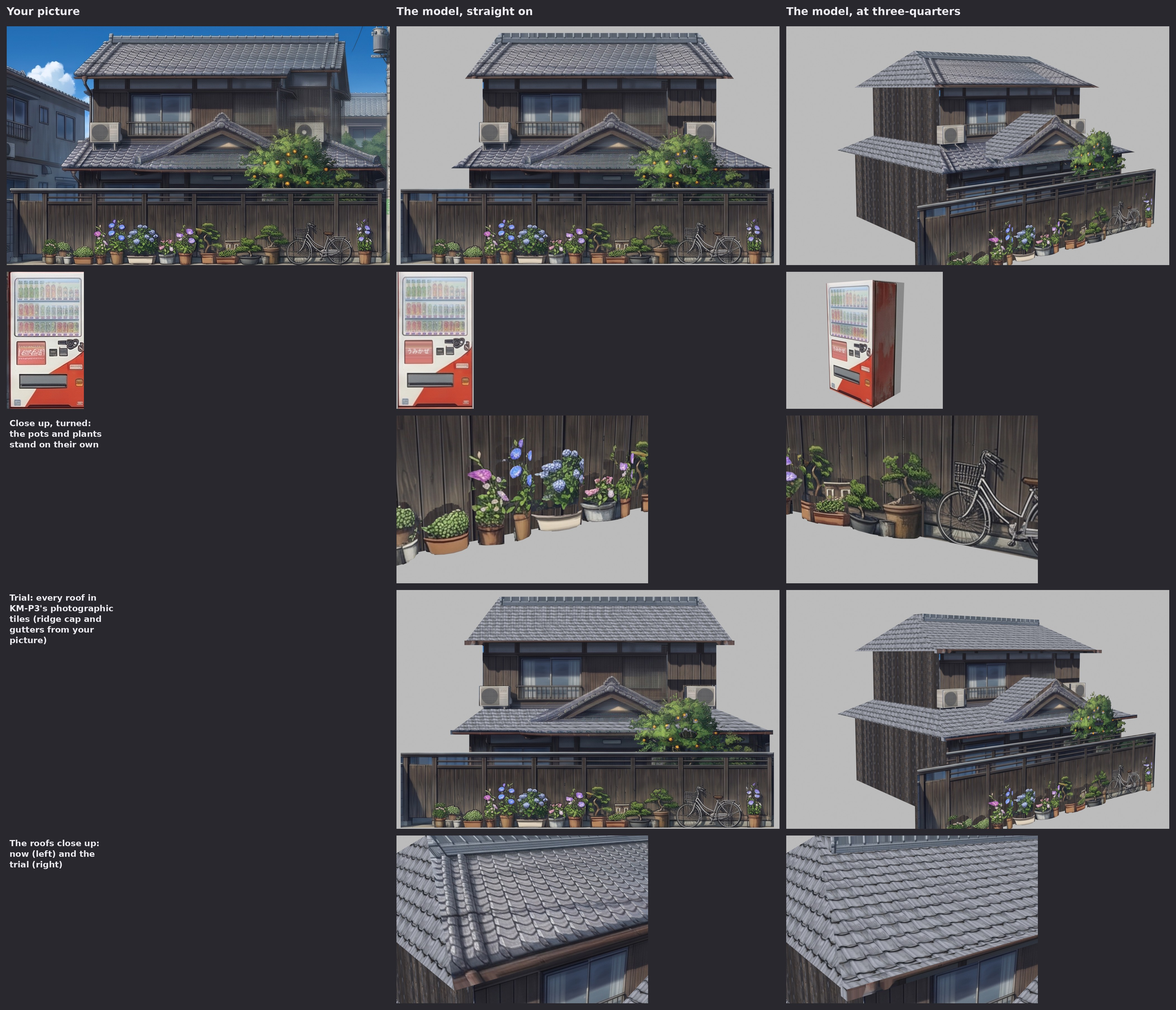
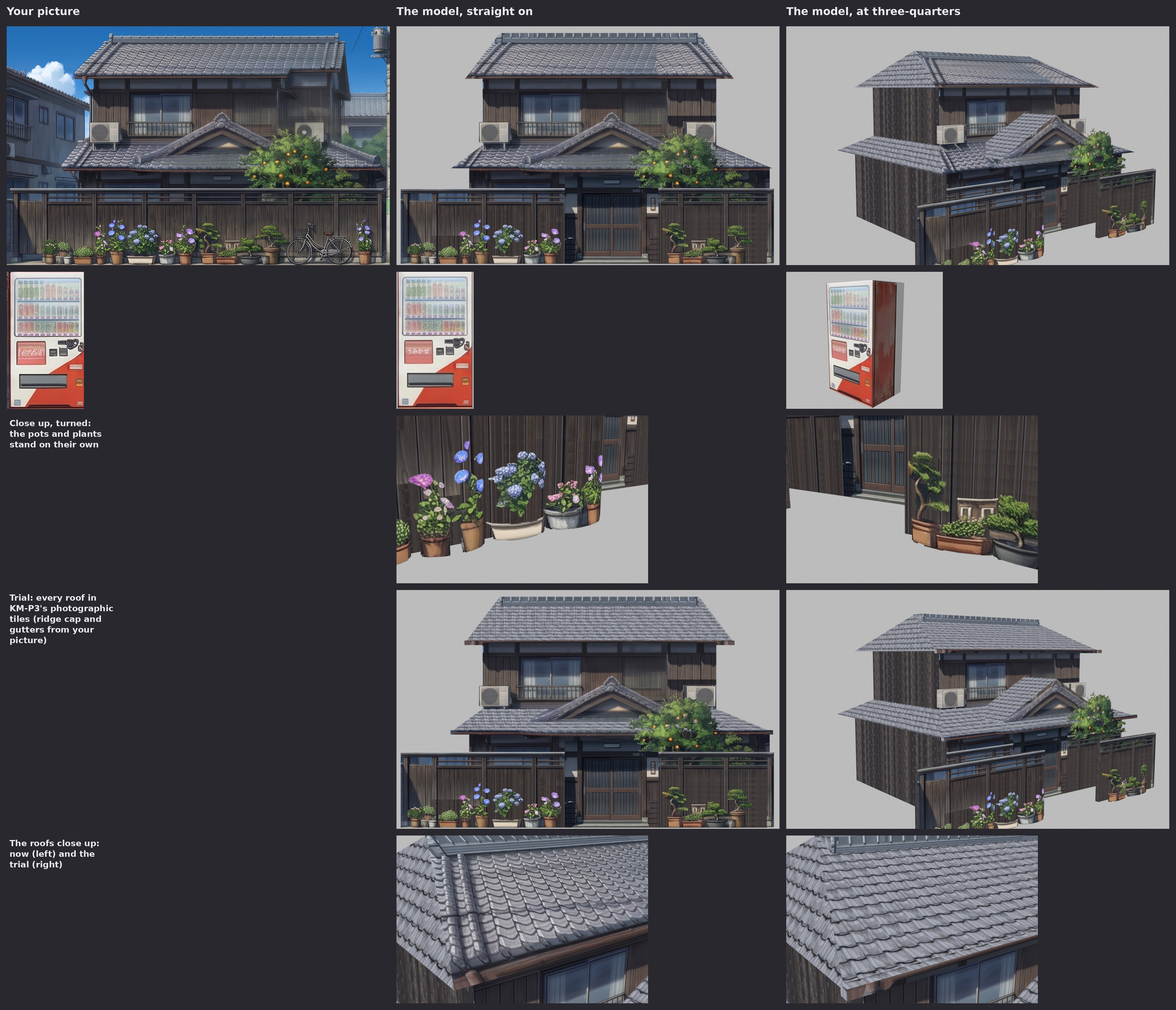
Kamakura home: an entrance under the gable
KM1-1's fence runs unbroken in front of the home. At the user's request the fence now
opens under the entrance gable onto the entrance of KM-x2, the earlier picture of the
same home: the sliding lattice doors, light, house number, walls with the nameplate
and step, cut once from KM-x2 in git history with what stood in front painted out
(refs/parts/KM-x2_entrance.png, --entrance-from), set into the wall at the house's
scale with a post at each side. The pots close up to the left, both bonsai groups move
to the right; the bicycle and the last morning glory leave the fence line.

Fixes on the way (LEARNINGS D13): moved groups have their whole box painted out (the
bicycle's ghost stayed on the fence), and a group's background is learnt from the
fence above it, not beside it (the bonsai had lost their canopies). RESTYLE KM1-1 and
ASSET KM-B01 now include the entrance.

Claude-Session: https://claude.ai/code/session_015hMH1BRkR7V2UbVhP5LJ56

diff --git a/tools/blender/kit_buildings_km.py b/tools/blender/kit_buildings_km.py
@@ -21,7 +21,7 @@ sys.path.insert(0, os.path.dirname(os.path.abspath(__file__)))
 import kit_lib as K
 
 ARGS = sys.argv[sys.argv.index('--') + 1:] if '--' in sys.argv else []
-OUT = ARGS[0] if ARGS else os.path.abspath('out_km')
+OUT = ARGS[0] if ARGS and not ARGS[0].startswith('--') else os.path.abspath('out_km')
 BOARD = ARGS[ARGS.index('--board') + 1] if '--board' in ARGS else None
 REPO = os.path.abspath(os.path.join(os.path.dirname(os.path.abspath(__file__)), '..', '..'))
 REFS = os.path.join(REPO, 'review', 'kamakura', 'refs')
@@ -467,6 +467,59 @@ def repair_km11(im):
     return Image.fromarray(a)
 
 
+# The home's entrance (the user asked for one: KM1-1's fence runs unbroken in front of the house). It is the entrance
+# of KM-x2, an earlier picture of the same home the user has since removed: the bay from the left fence's end to the
+# right one's (x 1657 to 1967), from under the skirt roof's gutter (y 592) to the ground (y 883): the two sliding
+# lattice doors, the light and the house number above them, the plaster-and-board walls either side with the nameplate,
+# the step. The urn and the white flowers in front of its left wall and the bonsai in front of its right one are
+# painted out (GrabCut, as the home's own pots). Made once, from KM-x2 in git history (d9630ba~1):
+#   blenv/bin/python kit_buildings_km.py -- --entrance-from /abs/KM-x2_home_street.png
+ENTRANCE = os.path.join(REFS, 'parts', 'KM-x2_entrance.png')
+ENTRANCE_BOX = (1657, 592, 1967, 883)
+ENTRANCE_PX_PER_M = 110.0
+X2_GROUPS = [
+    ('white_flowers', (1612, 802, 1662), [(1624, 855, 1658, 879)]),
+    ('urn', (1655, 791, 1697), [(1664, 806, 1690, 870), (1662, 858, 1679, 876)]),
+    ('bonsai', (1915, 753, 2098), [(1940, 856, 1998, 878), (2008, 854, 2028, 878), (2014, 830, 2060, 878),
+                                   (2028, 775, 2042, 826)]),
+]
+X2_BACK = {'bonsai': [(1913, 846, 1934, 886), (2064, 812, 2098, 851)]}
+
+
+def make_entrance(x2_path):
+    x2 = Image.open(x2_path).convert('RGB')
+    masks = garden_masks(x2, X2_GROUPS, X2_BACK, 882)
+    allm = np.zeros(np.asarray(x2).shape[:2], np.uint8)
+    for m in masks.values():
+        allm |= m
+    part = paint_out(x2, allm, ref_rows=(732, 749)).crop(ENTRANCE_BOX)
+    os.makedirs(os.path.dirname(ENTRANCE), exist_ok=True)
+    part.save(ENTRANCE)
+    print('entrance', ENTRANCE, part.size)
+
+
+def add_entrance(fixed, cx, gy, s):
+    """The entrance set into the house's ground floor under the gable (its middle at x 1040), at the house's scale, its
+    colours brought halfway to the house's own; posts copied from the fence at both ends of the opening. Returns the
+    picture and the opening's x range (in picture px)."""
+    part = Image.open(ENTRANCE).convert('RGB')
+    k = s / ENTRANCE_PX_PER_M
+    part = part.resize((round(part.width * k), round(part.height * k)), Image.LANCZOS)
+    matched = match_colours(part, fixed.crop((530, 548, 1600, 625)))
+    part = Image.blend(part, matched, 0.5)
+    w, h = part.size
+    x0, y1 = round(1040 - w / 2), round(gy)
+    y0 = y1 - h
+    a = np.asarray(fixed).copy()
+    p = np.asarray(part).astype(np.float32)
+    ramp = np.clip(np.arange(h) / 6.0, 0, 1)[:, None, None]          # its top edge eased into the wall under the eave
+    a[y0:y1, x0:x0 + w] = (p * ramp + a[y0:y1, x0:x0 + w] * (1 - ramp)).astype(np.uint8)
+    post = a[618:y1, 748:758].copy()                                  # one of the fence's posts
+    a[618:y1, x0 - 10:x0] = post
+    a[618:y1, x0 + w:x0 + w + 10] = post
+    return Image.fromarray(a), (x0, x0 + w)
+
+
 def build_home(atlas):
     """KM-B01, the kid's home (KM1-1, its left): the two-storey timber house with its hipped upper roof, the skirt roof
     round the ground floor with the entrance gable, the air conditioners on the skirt roof, and the long board fence in
@@ -481,7 +534,11 @@ def build_home(atlas):
     allm = np.zeros_like(tmask)
     for m in masks.values():
         allm |= m
-    fixed = paint_out(src, allm)
+    # every group moves along the fence or leaves it, so each one's whole box is painted out (a thin bicycle's mask
+    # misses spokes and tubes, which stayed on the fence once the bicycle no longer stood in front of them)
+    for _, (x0, y0, x1), _ in GARDEN:
+        allm[y0 - 4:GARDEN_GROUND + 1, x0 - 4:x1 + 4] = 1
+    fixed = paint_out(src, allm, ref_rows=(700, 720))
     a = np.asarray(fixed).copy()
     tm = cv2.dilate(tmask, np.ones((5, 5), np.uint8)) > 0
     ys, xs = np.nonzero(tm)
@@ -489,6 +546,7 @@ def build_home(atlas):
     fixed = repair_km11(Image.fromarray(a))
     fixed = unsky(fixed, (480, 50, 1520, 240))      # the upper roof's outline against the sky
     cx, gy, s, crop_box = HOME['cx'], HOME['gy'], HOME['s'], HOME['crop']
+    fixed, (ex0, ex1) = add_entrance(fixed, cx, gy, s)
     fpos = atlas.place(fixed.crop(crop_box))
     fmap = lambda co: (cx + co.x * s - crop_box[0], gy - co.z * s - crop_box[1])
     # the hidden faces: KM-P3's boards and tiles at 160 px to the metre, coloured like the picture's boards and roof
@@ -540,10 +598,18 @@ def build_home(atlas):
     trial = house('KmHomeTrialP3', True)
 
     fence = Builder(atlas, fpos, fmap, bpos, boards.size)
-    fence.box(X(285), X(1620), -4.6, -4.45, 0.0, Z(620), side=side, skip=('bottom',))     # 2.3 m tall, along the lane
+    for f0, f1 in ((285, ex0), (ex1, 1620)):            # 2.3 m tall, along the lane, open at the entrance
+        fence.box(X(f0), X(f1), -4.6, -4.45, 0.0, Z(620), side=side, skip=('bottom',))
     fence_obj = fence.object('KmHomeFence')
     fence_obj.parent = home
-    garden, tree = build_garden(atlas, src, masks, tmask)
+    # the pots either side of the entrance: those left of it closed up to its left, the two bonsai groups to its right;
+    # the bicycle and the last morning glory no longer fit along the fence (the bicycle is its own prop, KM-A08)
+    left = ['pots_left', 'bush', 'morning_glory', 'hydrangea', 'flowers']
+    right = ['bonsai_left', 'bonsai_right']
+    edge = lambda n, f: f(np.nonzero(masks[n])[1])
+    shift = {n: min(0, (ex0 - 14) - max(edge(m, np.max) for m in left)) for n in left}
+    shift.update({n: (ex1 + 14) - min(edge(m, np.min) for m in right) for n in right})
+    garden, tree = build_garden(atlas, src, masks, tmask, shift)
     garden.parent = home
     tree.parent = home
     return home, trial, dict(source='KM1-1 (left): the house and its fence; in front of it, the pots, plants and bicycle '
@@ -564,16 +630,18 @@ GARDEN = [
     ('morning_glory', (578, 726, 702), [(588, 860, 624, 887), (642, 848, 688, 887)]),
     ('hydrangea', (698, 740, 812), [(705, 862, 806, 887)]),
     ('flowers', (808, 746, 952), [(815, 856, 868, 887), (886, 850, 934, 887)]),
-    ('bonsai_left', (948, 736, 1105), [(966, 850, 1024, 887), (1052, 807, 1100, 834), (1022, 866, 1098, 887)]),
-    ('bonsai_right', (1078, 744, 1282), [(1102, 864, 1173, 887), (1182, 864, 1209, 887), (1190, 832, 1243, 887)]),
+    ('bonsai_left', (944, 736, 1105), [(966, 850, 1024, 887), (1052, 807, 1100, 834), (1022, 866, 1098, 887),
+                                       (962, 752, 1022, 788), (982, 796, 1032, 828), (976, 790, 991, 848)]),
+    ('bonsai_right', (1078, 744, 1282), [(1102, 864, 1173, 887), (1182, 864, 1209, 887), (1190, 832, 1243, 887),
+                                         (1182, 755, 1238, 788), (1228, 800, 1268, 818), (1206, 790, 1224, 828)]),
     ('bicycle', (1266, 733, 1510), []),
     ('morning_glory_right', (1515, 722, 1588), [(1528, 852, 1575, 887)]),
 ]
-# fence seen between and beside them: never part of them
-GARDEN_BACK = {}
+# fence seen between and beside them: never part of them (the shaded boards under the big bonsai's canopy)
+GARDEN_BACK = {'bonsai_right': [(1178, 792, 1203, 828)]}
 
 
-def garden_masks(src):
+def garden_masks(src, groups=None, back=None, ground=None):
     """Each group's cut-out (a 0/1 mask over the whole picture), by GrabCut: a colour model of the group against one of
     what's round it, seeded with what is surely the group (saturated or bright: leaves, flowers, terracotta, the white
     bin) and what is surely fence (dark, brownish grey and the same all the way up and down a board, as leaves, soil and
@@ -584,10 +652,15 @@ def garden_masks(src):
     chroma = np.sqrt(((F - luma[..., None]) ** 2).sum(-1))
     vstd = np.sqrt(np.maximum(cv2.blur(luma ** 2, (1, 13)) - cv2.blur(luma, (1, 13)) ** 2, 0))
     fence = (chroma < 24) & (luma < 105) & (vstd < 7) & (F[..., 0] >= F[..., 1] - 2)
+    groups = GARDEN if groups is None else groups
+    back = GARDEN_BACK if back is None else back
+    ground = GARDEN_GROUND if ground is None else ground
     masks = {}
-    for name, (x0, y0, x1), hints in GARDEN:
-        y1, m = GARDEN_GROUND, 20
-        X0, Y0, X1, Y1 = x0 - m, y0 - m, x1 + m, y1 + 4
+    for name, (x0, y0, x1), hints in groups:
+        # the background is learnt from the fence above the group (and the fence-like pixels inside its box), not from
+        # beside it, where along a crowded fence the next group's leaves would teach it that leaves are background
+        y1, m, mx = ground, 20, 3
+        X0, Y0, X1, Y1 = x0 - mx, y0 - m, x1 + mx, y1 + 4
         sub = np.ascontiguousarray(A[Y0:Y1, X0:X1, ::-1])
         lu, ch = luma[Y0:Y1, X0:X1], chroma[Y0:Y1, X0:X1]
         gc = np.full(lu.shape, cv2.GC_BGD, np.uint8)
@@ -599,7 +672,7 @@ def garden_masks(src):
         gc[inner & fence[Y0:Y1, X0:X1]] = cv2.GC_BGD
         for hx0, hy0, hx1, hy1 in hints:
             gc[hy0 - Y0:hy1 - Y0, hx0 - X0:hx1 - X0] = cv2.GC_FGD
-        for hx0, hy0, hx1, hy1 in GARDEN_BACK.get(name, []):
+        for hx0, hy0, hx1, hy1 in back.get(name, []):
             gc[max(hy0 - Y0, 0):hy1 - Y0, max(hx0 - X0, 0):hx1 - X0] = cv2.GC_BGD
         cv2.grabCut(sub, gc, None, np.zeros((1, 65)), np.zeros((1, 65)), 8, cv2.GC_INIT_WITH_MASK)
         fg = ((gc == cv2.GC_FGD) | (gc == cv2.GC_PR_FGD)).astype(np.uint8)
@@ -654,7 +727,7 @@ def paint_out(img, mask, ref_rows=(700, 727), grow=3):
     return Image.fromarray(a)
 
 
-def cutout_arc(b, atlas, src, mask, box, cx, gy, s, y_back, name):
+def cutout_arc(b, atlas, src, mask, box, cx, gy, s, y_back, name, dx=0):
     """One group as a cut-out on half an elliptic cylinder, its ends against the fence (y_back), its middle toward the
     street: straight on it is the picture exactly; turned, it is round. The cut-out's colours are the picture's own; its
     alpha the group's mask."""
@@ -663,7 +736,7 @@ def cutout_arc(b, atlas, src, mask, box, cx, gy, s, y_back, name):
     pos = atlas.place(Image.fromarray(rgba, 'RGBA'))
     X = lambda px: (px - cx) / s
     Z = lambda py: (gy - py) / s
-    xa, xb, top = X(x0), X(x1), Z(y0)
+    xa, xb, top = X(x0 + dx), X(x1 + dx), Z(y0)      # placed dx px along from where the picture has it
     half = (xb - xa) / 2
     ry = min(max(0.4 * (xb - xa), 0.08), 0.30)
     N = 8
@@ -674,21 +747,23 @@ def cutout_arc(b, atlas, src, mask, box, cx, gy, s, y_back, name):
         f = b.bm.faces.new([b.bm.verts.new(Vector(v)) for v in ((xp, yp, 0.0), (xq, yq, 0.0), (xq, yq, top), (xp, yp, top))])
         for loop in f.loops:
             c = loop.vert.co
-            loop[uvl].uv = atlas.uv(pos, cx + c.x * s - x0, gy - c.z * s - y0)
+            loop[uvl].uv = atlas.uv(pos, cx + c.x * s - dx - x0, gy - c.z * s - y0)
     return ry
 
 
-def build_garden(atlas, src, masks, tmask):
+def build_garden(atlas, src, masks, tmask, shift=None):
     """The pots, plants and the bicycle in front of the fence (KmHomeGarden), and the persimmon behind it (KmHomeTree):
     cut-outs, drawn with the kit's cut-out material."""
     cx, gy, s = HOME['cx'], HOME['gy'], HOME['s']
     g = Builder(atlas, None, None, None, None)
     for i, (name, (x0, y0, x1), _) in enumerate(GARDEN):
+        if shift is not None and name not in shift:
+            continue
         m = masks[name]
         ys, xs = np.nonzero(m)
         box = (int(xs.min()), int(ys.min()), int(xs.max()) + 1, GARDEN_GROUND + 1)
         # each group a little further out than the one before where they overlap, so no two cut-outs share a plane
-        cutout_arc(g, atlas, src, m, box, cx, gy, s, -4.62 - 0.01 * (i % 3), name)
+        cutout_arc(g, atlas, src, m, box, cx, gy, s, -4.62 - 0.01 * (i % 3), name, (shift or {}).get(name, 0))
     garden = g.object('KmHomeGarden', outward=False)
     t = Builder(atlas, None, None, None, None)
     ys, xs = np.nonzero(tmask)
@@ -853,6 +928,9 @@ def board(home, vend, atlas_path, out):
 
 
 def main():
+    if '--entrance-from' in ARGS:
+        make_entrance(ARGS[ARGS.index('--entrance-from') + 1])
+        return
     os.makedirs(OUT, exist_ok=True)
     K.reset()
     atlas = Atlas(ATLAS_SIZE)

diff --git a/docs/KAMAKURA_BUILD.md b/docs/KAMAKURA_BUILD.md
@@ -22,9 +22,15 @@ vending machine (`review/kamakura/kit_proof_board.jpg`, `tools/blender/kit_build
 - **Things standing in front of a building are their own models:** plants, pots, bicycles, signs that stand off the wall.
   Painted on, they smear when the camera turns. They are cut out of the picture (OpenCV's GrabCut, per group, with
   hints) and stand in front as cut-outs on half an elliptic cylinder: straight on exactly the picture, turned round; the
-  wall or fence behind gets them painted out (its boards carried down). The home's pots, plants and bicycle are done
-  this way (`KmHomeGarden`), and its persimmon tree as a card behind the fence (`KmHomeTree`). The bicycle is to become
-  its own modelled prop (KM-A08): as a cut-out, the fence shows inside its wheels.
+  wall or fence behind gets them painted out (its boards carried down). The home's pots and plants are done this way
+  (`KmHomeGarden`), and its persimmon tree as a card behind the fence (`KmHomeTree`).
+- **The home's entrance** (asked for by the user: KM1-1's fence runs unbroken): the fence opens under the entrance
+  gable onto the entrance of KM-x2, the earlier picture of the same home (the sliding lattice doors, the light and house
+  number above them, the plaster-and-board walls either side with the nameplate, the step), kept as a part
+  (`review/kamakura/refs/parts/KM-x2_entrance.png`, the urn and bonsai in front of it painted out), set into the wall at
+  the house's scale with a fence post at each side of the opening. The pots and flowers close up to the left of it, both
+  bonsai groups stand to its right; the bicycle and the last morning glory no longer fit along the fence (the bicycle
+  is its own prop, KM-A08).
 - **No real brands:** a logo that reads as a real one (the corrected KM1-1's vending machine) is repainted with an
   invented name in the city's script (うみかぜ), in its own colours.
 - **The pictures' glitches are not copied:** a clean picture replaces one with a glitch, or else the glitch is repaired,
@@ -38,8 +44,8 @@ vending machine (`review/kamakura/kit_proof_board.jpg`, `tools/blender/kit_build
 - **The highest resolution where it shows:** the fronts at the pictures' full resolution (the home's front is 1,340 px
   across), in the Kamakura atlas (4096 x 4096), within the phone's budgets (`docs/ART_DIRECTION.md`: a building 6,000
   triangles, a street prop 1,500, a tree 6,000, a gameplay structure 5,000; `docs/PERFORMANCE.md`). The proof's home is
-  57 triangles, its fence 10, its pots, plants and bicycle 144, its tree 2, and the vending machine 10: the detail is
-  in the picture, not the mesh.
+  57 triangles, its fence 20, its pots and plants 112, its tree 2, and the vending machine 10: the detail is in the
+  picture, not the mesh.
 - Every asset is checked against its source: rendered straight on and turned, beside the picture, and in all four looks,
   and redone until it matches (an acceptance board: `docs/LEARNINGS.md` rule 4, A8).
 
@@ -149,12 +155,16 @@ Then wait for my first picture.
 ```
 
 ```text
-RESTYLE KM1-1, Hase Lanes. Attach KM1-1. Make it a photograph in KM-0's look, by the rules above: every object exactly
+RESTYLE KM1-1, Hase Lanes. Attach KM1-1 (and the entrance part, below). Make it a photograph in KM-0's look, by the rules above: every object exactly
 where it is, at its size and with its outline; only the look changes. Keep: the kid's home with its fence, the persimmon,
 the pots and the bicycle; the ginger cat on the block wall; the convex mirror, the two vending machines, the little shrine
 and its vermilion torii; the level crossing; Hase Station's platform and the hydrangeas. Make the right third of the
 home's upper storey, its air conditioner, and the right half of the entrance gable solid: continue them as their left
-halves show them. Give the vending machine's red panel an invented Japanese name.
+halves show them. Give the vending machine's red panel an invented Japanese name. One change to the layout: open the
+home's fence under the entrance gable, a gap about 2.8 m wide (x 873 to 1208), showing the entrance in the second
+picture I attach (review/kamakura/refs/parts/KM-x2_entrance.png: the sliding lattice doors, the light, the walls either
+side with the nameplate, the step) at the same size; the pots and flowers closed up to the left of the gap, the bonsai
+to its right, the bicycle and the last morning glory gone.
 FORMAT: exactly the attached picture's shape, 4:1.
 ```
 
@@ -558,9 +568,10 @@ In the model sheet chat, in this order: the two shared ends first.
 ```text
 ASSET KM-B01, the home. Attach KM1-1. The kid's two-storey house at the left of the picture: dark-stained timber walls,
 grey kawara roofs (the hipped upper roof, and the skirt roof round the ground floor with the entrance gable), aluminium
-windows, the balcony rail, the two air-conditioner units; with its long dark board fence in front (not the pots, the
-plants, the bicycle or the persimmon: they are separate). Real size: 9.7 m wide, 8.2 m deep, 7 m to the ridge. Same
-rules as before.
+windows, the balcony rail, the two air-conditioner units; the entrance under the gable (attach
+review/kamakura/refs/parts/KM-x2_entrance.png too: the sliding lattice doors and their walls); with its long dark board
+fence in front, open at the entrance (not the pots, the plants or the persimmon: they are separate). Real size: 9.7 m
+wide, 8.2 m deep, 7 m to the ridge. Same rules as before.
 ```
 
 ```text

diff --git a/tools/blender/README.md b/tools/blender/README.md
@@ -689,7 +689,7 @@ vertex colours times the atlas, and recolourable parts in UV2.x.
 | Buildings | `kit_buildings.py` | gabled and long houses, bungalow, fruit shop and bakery, flats, warehouse, school, garage; the town's shops and houses (`kit_buildings_town.py`): a small supermarket, cafe, bookshop, florist, noodle house, convenience store, two narrow tiled three-storey buildings, a white house with a corrugated lean-to and a garden pine, a flat-roofed house with a balcony, a house with a carport; `KIT_SIGNS=CA` writes only `BuildingsCAAtlas.png`, the same atlas with English shop names, for the California skin |
 | Coast | `kit_buildings.py --kit Coast` | the California skin's town (built into the levels' `_CA` scenes only; `kit_buildings_cal.py`, its own 4096 x 4096 atlas at about 2.8 x the Buildings kit's texel density: 96 px/m on the fronts, so a villa's front is some 1300 px across): a stucco villa with a garage, a ranch house with solar panels, a Craftsman house with a front porch, a beach condo, a surf shop, a Spanish Revival shop, a pier span and the pier's end with its roundhouse; hipped roofs of barrel tiles (the atlas' `hip` feature) |
 | Florida | `kit_buildings.py --kit Florida` | the Florida add-on's beach town (built into chapter 3's `_FL` scenes only; `kit_buildings_fl.py`, after `review/florida/refs`, on its own 4096 x 4096 atlas, the shops' fronts at 72 to 80 px/m and the small things at 12): a concrete-block restroom with beach showers, a weathered snack shack, a lifeguard stand, a dune crossover, a chrome diner and its pole sign, a Miami Modern motel with its sign and pool, a rental shop, five Art Deco shops (surf shop, Cuban café, bait and tackle, ice-cream parlour with a glass-block tower, a shut shop behind its accordion gate), the street's things (lamps, benches, bins, a hydrant, a mailbox, signs, a concrete pole with its mast-arm signal, a bus shelter, the school-zone beacon, kayaks, a volleyball net, fences, a goal) and Seagrove High (the school, its gate, fence, marquee, flags, covered walkway, a portable); and for the Home Street (chapter 1's `_FL` scenes): two concrete-block ranch houses (`RanchFL` with an awning over the door and a screened porch, `RanchSmallFL`), an Old Florida cottage with its porch swing (`CottageFL`), a Spanish Mission church with its bell tower (`ChurchFL`), a mailbox on a post, the groundskeeper's golf cart, a lawn sprinkler, the canal's bascule drawbridge (a leaf, the tender's tower, a gate post and its arm, the balustrade), a dock with a boat on its lift and the No Wake sign. Its signs, glass block, breeze block and flags are painted by the kit itself (`paint()`, through `kit_buildings_atlas.EXTRA`) with Inter and the Lobster script face (`fonts-inter`, `fonts-lobster`) |
-| Kamakura | `kit_buildings_km.py` | the Kamakura city's kit, by projection modelling: each model built to the measurements of the user's picture it comes from (`review/kamakura/refs`), the picture's pixels projected onto the faces toward the street, the sides sampled from the same picture, glitches in the picture repaired (each noted), its own 4096 x 4096 atlas (`KamakuraAtlas.png`). So far the proof: the home with its fence (`KmHome`, `KmHomeFence`, from the corrected KM1-1, its see-through right third rebuilt), the pots, plants and bicycle in front of it and the persimmon behind (`KmHomeGarden`, `KmHomeTree`: alpha cut-outs, the `KamakuraCutout` material); the hidden faces in KM-P3's plates and the red vending machine (`KmVendingRed`, its side from KM-P1). `--board` renders each model beside its picture, straight on and turned (`review/kamakura/kit_proof_board.jpg`) |
+| Kamakura | `kit_buildings_km.py` | the Kamakura city's kit, by projection modelling: each model built to the measurements of the user's picture it comes from (`review/kamakura/refs`), the picture's pixels projected onto the faces toward the street, the sides sampled from the same picture, glitches in the picture repaired (each noted), its own 4096 x 4096 atlas (`KamakuraAtlas.png`). So far the proof: the home with its fence (`KmHome`, `KmHomeFence`, from the corrected KM1-1, its see-through right third rebuilt), its entrance (the part `refs/parts/KM-x2_entrance.png`, made once with `--entrance-from`), the pots and plants either side of it and the persimmon behind (`KmHomeGarden`, `KmHomeTree`: alpha cut-outs, the `KamakuraCutout` material); the hidden faces in KM-P3's plates and the red vending machine (`KmVendingRed`, its side from KM-P1). `--board` renders each model beside its picture, straight on and turned (`review/kamakura/kit_proof_board.jpg`) |
 | Street | `kit_street.py` | utility pole (concrete; `UtilityPoleWood` for the California skin), lamp, pedestrian signal, walls, fences, hoarding, planters, benches, vending machines, signs, crates, pots, stalls, awnings, A-frame board, banner flag, electrical cabinet, bicycle hoops, wheelie bins, doorstep pots |
 | Terrain | `kit_terrain.py` | boulders, rock clusters, cliffs, a headland, mountain ranges, rolling hills, a forest strip, dunes, sand and gravel piles |
 | Leisure | `kit_leisure.py` | lifeguard tower, parasols, beach things, trampoline, swing tree and frame, fountain, raft, sign board, checkpoint flag, targets, playground |

diff --git a/PROGRESS.md b/PROGRESS.md
@@ -1899,6 +1899,18 @@ water showed only the word "Splash!"; in a slide one leg vibrated (`docs/LEARNIN
   trial as before. `KmHome` 57 triangles, `KmHomeFence` 10, `KmHomeGarden` 144, `KmHomeTree` 2. KM-x2 is deleted; the
   build plan's RESTYLE KM-x2 is gone (KM1-1 is the photographic test again, its prompt now asking for the see-through
   parts made solid and an invented name on the vending machine), and ASSET KM-B01 attaches KM1-1.
+- **The home's entrance** (the user, showing the earlier board's entrance: "Can we introduce the entrance for home"):
+  KM1-1's fence runs unbroken, so the fence now opens under the entrance gable (x 873 to 1208, a post at each side)
+  onto the entrance of KM-x2, the earlier picture of the same home: the bay x 1657 to 1967, y 592 to 883 (doors, light,
+  house number, the walls with the nameplate, the step), cut once from KM-x2 in git history (d9630ba~1) with the urn,
+  the white flowers and the bonsai in front of it painted out (`kit_buildings_km.py -- --entrance-from <png>` writes
+  `review/kamakura/refs/parts/KM-x2_entrance.png`), scaled 119/110, its colours brought halfway to KM1-1's, its top eased
+  into the wall under the eave. The pots and flowers close up to the left of the opening, both bonsai groups move to its
+  right; the bicycle and the last morning glory leave the fence line. Two fixes on the way (`docs/LEARNINGS.md` D13):
+  each moved group's whole box is painted out (the bicycle's ghost stayed on the fence), and a group's background is
+  learnt from the fence above it, not beside it (both bonsai had lost their canopies to their neighbours' leaves), with
+  hints on the two dark canopies. RESTYLE KM1-1 now asks for the opening with the entrance part attached; ASSET KM-B01
+  attaches the part. `KmHome` 57 triangles, `KmHomeFence` 20, `KmHomeGarden` 112, `KmHomeTree` 2.
 - **Who makes the photographs:** the user, in the Gemini app (a phone works), sending each result in the chat or pushing
   it. From the cloud session there is no image model to run: the Hugging Face connector has running Spaces switched off
   (gradio=none), huggingface.co and hf.space are blocked by the proxy, and Gemini's API needs the user's key (declined for

diff --git a/docs/LEARNINGS.md b/docs/LEARNINGS.md
@@ -670,6 +670,17 @@ Add a new entry whenever something has to be fixed, reverted or redone, in the s
   Start tab) before anything is built from it. Each fault a model's board finds in a picture becomes a rule in the
   prompts (the base prompt's BUILT INTO 3D and SHEETS AND PLATES, KM-R0's ALSO FIX, KM-S0) and a row here.
 
+**D13. Cut-outs along a crowded fence (Kamakura's home, with its new entrance).**
+- *What:* making room for the entrance moved the pots and took the bicycle off the fence line. A ghost of the bicycle
+  then showed on the fence: its cut-out had missed thin spokes and tubes, which nobody saw while the bicycle stood in
+  front of them. And both bonsai trees lost their canopies: each group's background was learnt from a strip round its
+  box, which along KM1-1's crowded fence held the next group's leaves, so leaves were taken for background.
+- *Fix:* every group that moves or leaves has its whole box painted out, not just its outline; a group's background is
+  learnt from the fence above it (and the fence-like pixels inside its box), not from beside it; the two dark canopies
+  have hints.
+- *Rule:* when a cut-out moves away from where the picture had it, paint out its box, since its outline is never
+  perfect. Along a row of touching objects, never learn the background from the neighbours' side.
+
 ## E. Levels and world
 
 - **E1. Every level had chapter-1 scenery.** A new-scene call unloaded the level definition. *Rule:* pass data into scene builders explicitly; never hold asset references across a new-scene call.
